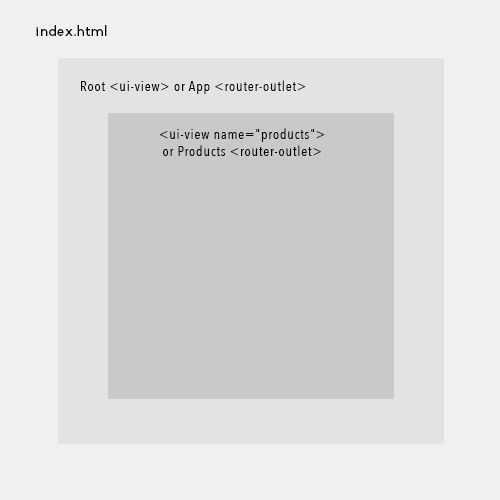
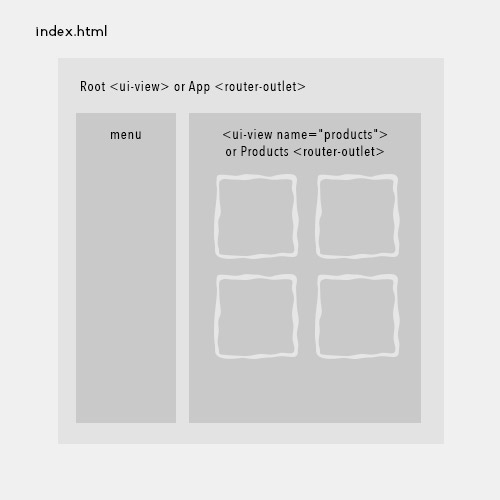
finishing notes

Changed region(s): [[0.15, 0.21, 0.84, 0.87], [0.42, 0.51, 0.6, 0.72]]

diff --git a/2016/angular2-router-vs-ui-router/index.html b/2016/angular2-router-vs-ui-router/index.html
@@ -54,8 +54,8 @@
 					<h1>Angular2 Router vs Angular1 UI-Router</h1>
 					<section data-markdown="../../slides/footer.md"></section>
 				</section>
-		        <section data-markdown="slides/celebration.md"></section>
 		        <section data-markdown="../../slides/about-me.md"></section>
+		        <section data-markdown="slides/celebration.md"></section>
 				<section>
 					<section>
 						<h1>Table of Contents</h1>

diff --git a/2016/angular2-router-vs-ui-router/slides/views.md b/2016/angular2-router-vs-ui-router/slides/views.md
@@ -35,7 +35,12 @@ import {RouterOutlet} from 'angular2/router';
     </div>
      <aside class="notes">
         <ul>
-            <li>A UI-VIEW or a routerOutlet is a placeholder that Angular dynamically fills based on the application's route.</li>
+            <li>A view placeholder is a placeholder that Angular dynamically fills based on the application's route.</li>
+            <li>It can be nested</li>
+        </ul>
+        <ul>
+            <li>Use ui-view directive for the ui-router</li>
+            <li>and RouterOutlet for Angular2</li>
         </ul>
     </aside>
 </section>
@@ -44,7 +49,20 @@ import {RouterOutlet} from 'angular2/router';
     <img src="../../img/meme/go-deeper.jpg" style="width: 18em;"/>
      <aside class="notes">
         <ul>
-            <li>We can now go deeper and nest our views</li>
+            <li>Let's see how to go deeper with nested views</li>
+        </ul>
+    </aside>
+</section>
+
+<section>
+    <h2>Nested views</h2>
+    <img src="./img/nested-views.jpg" />
+     <aside class="notes">
+        <ul>
+            <li>How to create that?</li>
+            <li>index.html contains either the root ui-view or the App routerOutlet</li>
+            <li>When we are browsing the Product page we want only a part of the ui updated, not the menu</li>
+            <li>To do this we must create a named ui-view or routerOutlet in the Products component</li>
         </ul>
     </aside>
 </section>
@@ -54,14 +72,15 @@ import {RouterOutlet} from 'angular2/router';
     <div class="grid">
         <div class="unit half fragment">
 <pre><code class="html" data-trim>
-<!-- AngularJS 1.x with UI-Router -->
+<!-- AngularJS 1.x UI-Router - index.html -->
 <ui-view></ui-view>
 </code></pre>
 
 <pre><code class="js" data-trim>
 $stateProvider.state('products', {
     abstract: true,
-    template: '&lt;ui-view name="products"/&gt;'
+    template: '<Menu></Menu>
+               &lt;ui-view name="products"/&gt;'
 })
 .state('products.list', {
     url: '/products',
@@ -83,8 +102,8 @@ $stateProvider.state('products', {
 });
 </code></pre>
         </div>
-        <div class="unit half fragment" >
-<pre><code class="typescript" data-trim>
+        <div class="unit half " >
+<pre class="fragment"><code class="typescript" data-trim>
 @Component({
     selector: "app"
     template: '&lt;router-outlet/&gt;'
@@ -95,9 +114,10 @@ $stateProvider.state('products', {
         component: Products})
 ])
 class App {}
-
+</code></pre>
+<pre class="fragment"><code class="typescript" data-trim>
 @Component({
-    template: 'products: &lt;router-outlet/&gt;'
+    template: '<Menu></Menu>&lt;router-outlet/&gt;'
 })
 @RouteConfig([{
         path: '/', name: 'all',
@@ -112,25 +132,18 @@ class Products {}
     </div>
      <aside class="notes">
         <ul>
-            <li>We define an abstract products state that does not have a url. It has a named ui-view directive</li>
+            <li>We define an abstract products state that does not have a url. It has a named ui-view directive and a menu directive</li>
             <li>the two other states follow the {parent}.{name} pattern, they are called nested views</li>
-            <li>These states inject their content in the ui-view name "products" (see the views property) and not on the root one</li>
+            <li>These states inject their content in the ui-view name "products" (because within the views property)</li>
         </ul>
-    </aside>
-     <aside class="notes">
+        For Angular2
         <ul>
             <li>The App component has a routerOutlet and has one Route registered</li>
-            <li>Only one RouterOutlet per component</li>
-            <li>/... means that the App component delegates the routing to the Products component</li>
-            <li>the Products component defines it own Routes and uses RouterOutlet</li>
+            <li>We can have only one RouterOutlet per component</li>
+            <li>products/... means that the App component delegates the routing to the Products component</li>
+            <li>[NEXT]</li>
+            <li>the Products component uses its own RouterOutlet</li>
+            <li>the Products component also defines it own Routes</li>
         </ul>
-    </aside>
-</section>
-
-<section>
-    <h2>Nested views</h2>
-    <img src="./img/nested-views.jpg" />
-    <aside class="notes">
-        
     </aside>
 </section>

diff --git a/2016/angular2-router-vs-ui-router/slides/data.md b/2016/angular2-router-vs-ui-router/slides/data.md
@@ -100,8 +100,8 @@ class {
 <section>
     <h2>Dynamic data</h2>
     <div class="grid">
-        <div class="unit half fragment">
-<pre><code class="js" data-trim>
+        <div class="unit half ">
+<pre class="fragment"><code class="js" data-trim>
 // AngularJS 1.x with UI-Router
 app.config(function($locationProvider){
     $stateProvider
@@ -115,6 +115,7 @@ app.config(function($locationProvider){
     })
 });
 </code></pre>
+<div class="fragment">
 <pre><code class="html" data-trim>
 <div ng-repeat="user in users">
     <a ui-sref="user({user: user})">
@@ -122,14 +123,13 @@ app.config(function($locationProvider){
     </a>
 </div>
 </code></pre>
+or
 <pre><code class="js" data-trim>
 app.controller(function($state){
-    // Got the user var from async operation
-    $state.go('user', {
-        user: user
-    })
+    $state.go('user', {user: user});
 });
 </code></pre>
+</div>
         </div>
         <div class="unit half fragment" >
             <img src="../../img/meme/does-not-exist.jpg"/>
@@ -137,7 +137,9 @@ app.controller(function($state){
     </div>
      <aside class="notes">
         <ul>
-            <li>Using "params" with UI-router you could pass an entire object to another state. For instance here we are trying to pass the user object to the user page so you will not have to fetch it server side.</li>
+            <li>Using "params" property in a state definition we could pass an entire object to another state. For instance here we are in a user list page.</li>
+            <li>We want when we click on a specific user to pass the user object to the user page</li>
+            <li>Why? So we do not have to fetch it server side.</li>
             <li>What about on Angular2? Well it does not exist!</li>
         </ul>
     </aside>

diff --git a/2016/angular2-router-vs-ui-router/slides/celebration.md b/2016/angular2-router-vs-ui-router/slides/celebration.md
@@ -6,8 +6,8 @@
         <ul>
             <li>Today we are celebrating a year of AngularJS & Beers meetups</li>
             <li>I wanted to thank David for building this incredible community here in Barcelona</li>
-            <li>I know for a fact that this is real hard, it takes courage, dedication and a leadership spirit.</li>
-            <li>So again congrats and lt's have fun tonight</li>
+            <li>I know for a fact that this is real hard, it takes hardwork, courage, dedication and a leadership spirit.</li>
+            <li>So again congrats and let's have fun tonight</li>
         </ul>
     </aside>
 </section>

diff --git a/slides/about-me.md b/slides/about-me.md
@@ -40,7 +40,7 @@
     </ul>
     <aside class="notes">
          <ul>
-            <li>This is my blog, I talk a lot about the Web, Angular and Ionic</li>
+            <li>This is my blog, I talk a lot about the Web, Angular and Ionic apps and large scale architecture</li>
             <li>Creator or trandingdevs.com that ranks developers from around the world</li>
             <li>Creator of AngularJS Meetups in my hometown</li>
             <li>Creator of several open source projects such as:
